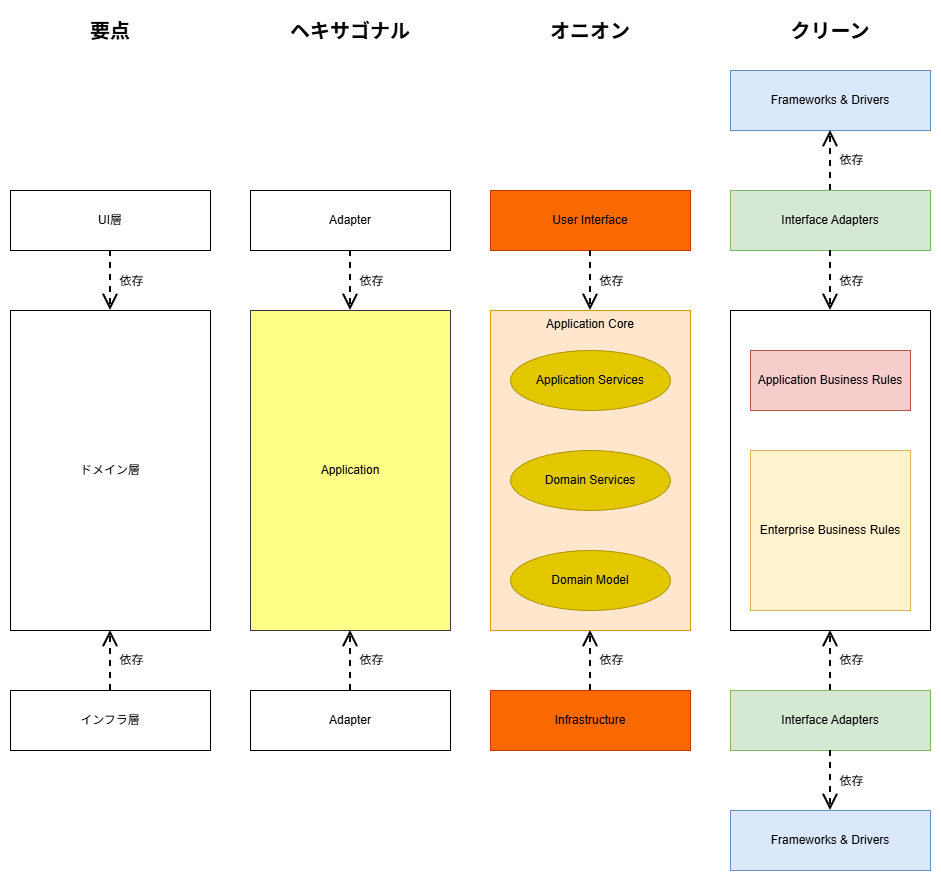
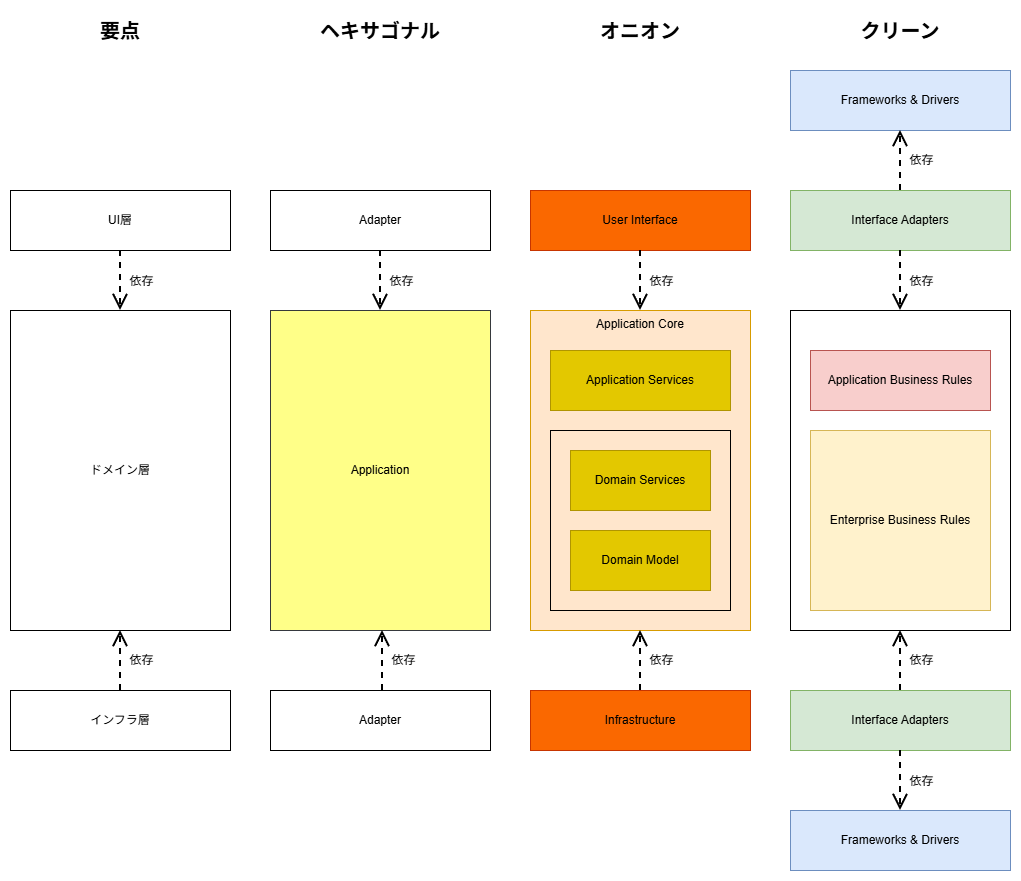
ヘキサゴナル、オニオン、クリーンの要点をまとめた図を更新

diff --git a/articles/clean-onion-hexagonal-same.md b/articles/clean-onion-hexagonal-same.md
@@ -1,17 +1,17 @@
 ---
 title: "クリーンアーキテクチャとオニオンとヘキサゴナルの違い？残念だがそんなものは無い！"
-emoji: "👏"
+emoji: "👏" # todo 絵文字の選定
 type: "tech" # tech: 技術記事 / idea: アイデア
-topics: [ヘキサゴナルアーキテクチャ, オニオンアーキテクチャ, クリーンアーキテクチャ]
+topics: [ヘキサゴナルアーキテクチャ, オニオンアーキテクチャ, クリーンアーキテクチャ, アプリケーションアーキテクチャ, ソフトウェアアーキテクチャ]
 published: false
 ---
-![](/images/clean-onion-hexagonal-same.png)
+![ヘキサゴナル、オニオン、クリーンの要点](/images/clean-onion-hexagonal-same.png)
 
 ## 要点
 
 ## ヘキサゴナルアーキテクチャ
 
-> ![](/images/ref-HexagonalArchitecture.gif)
+> ![ヘキサゴナルアーキテクチャ](/images/ref-HexagonalArchitecture.gif)
 > 
 > 出典: [The Hexagonal (Ports & Adapters) Architecture | Alistair Cockburn](https://alistair.cockburn.us/hexagonal-architecture/)
 
@@ -24,7 +24,7 @@ https://alistair.cockburn.us/hexagonal-architecture/
 
 ## オニオンアーキテクチャ
 
-> ![](/images/ref-OnionArchitecture.png)
+> ![オニオンアーキテクチャ](/images/ref-OnionArchitecture.png)
 > 
 > 出典: [The Onion Architecture : part 1 | Programming with Palermo](https://jeffreypalermo.com/2008/07/the-onion-architecture-part-1/)
 
@@ -34,7 +34,7 @@ https://jeffreypalermo.com/2008/07/the-onion-architecture-part-1/
 
 ## クリーンアーキテクチャ
 
-> ![](/images/ref-CleanArchitecture.jpg)
+> ![クリーンアーキテクチャ](/images/ref-CleanArchitecture.jpg)
 > 
 > 出典: [The Clean Architecture | The Clean Code Blog](https://blog.cleancoder.com/uncle-bob/2012/08/13/the-clean-architecture.html)
 

diff --git a/README.md b/README.md
@@ -3,7 +3,7 @@
 ## コマンド
 
 ```bash
-$ npx zenn preview
+npx zenn preview
 ```
 
 ## 資料
